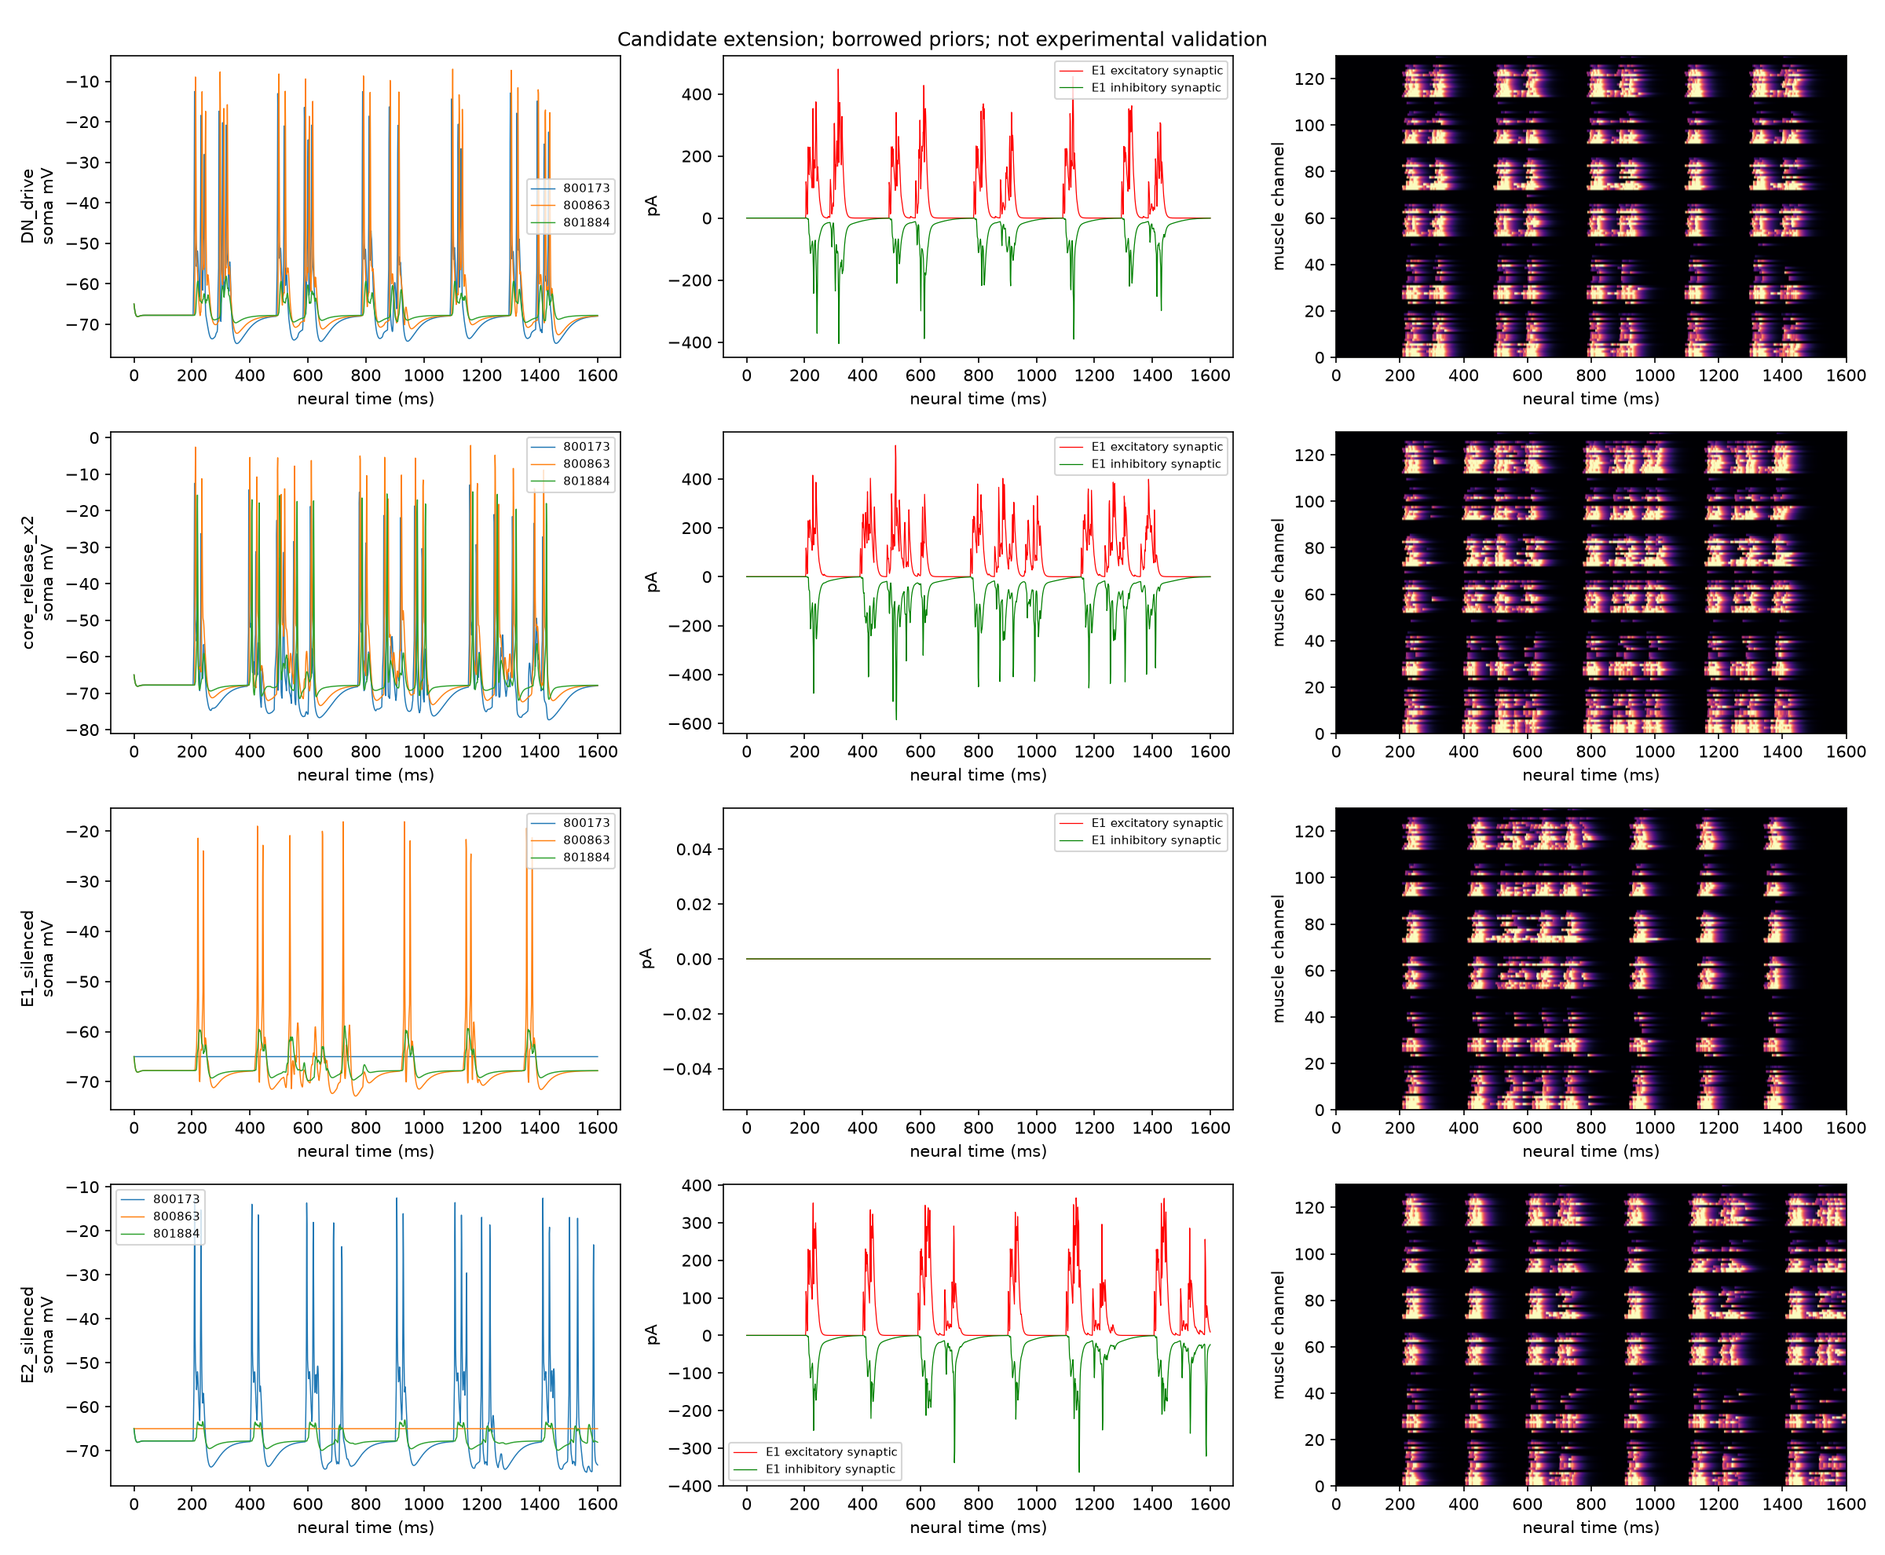
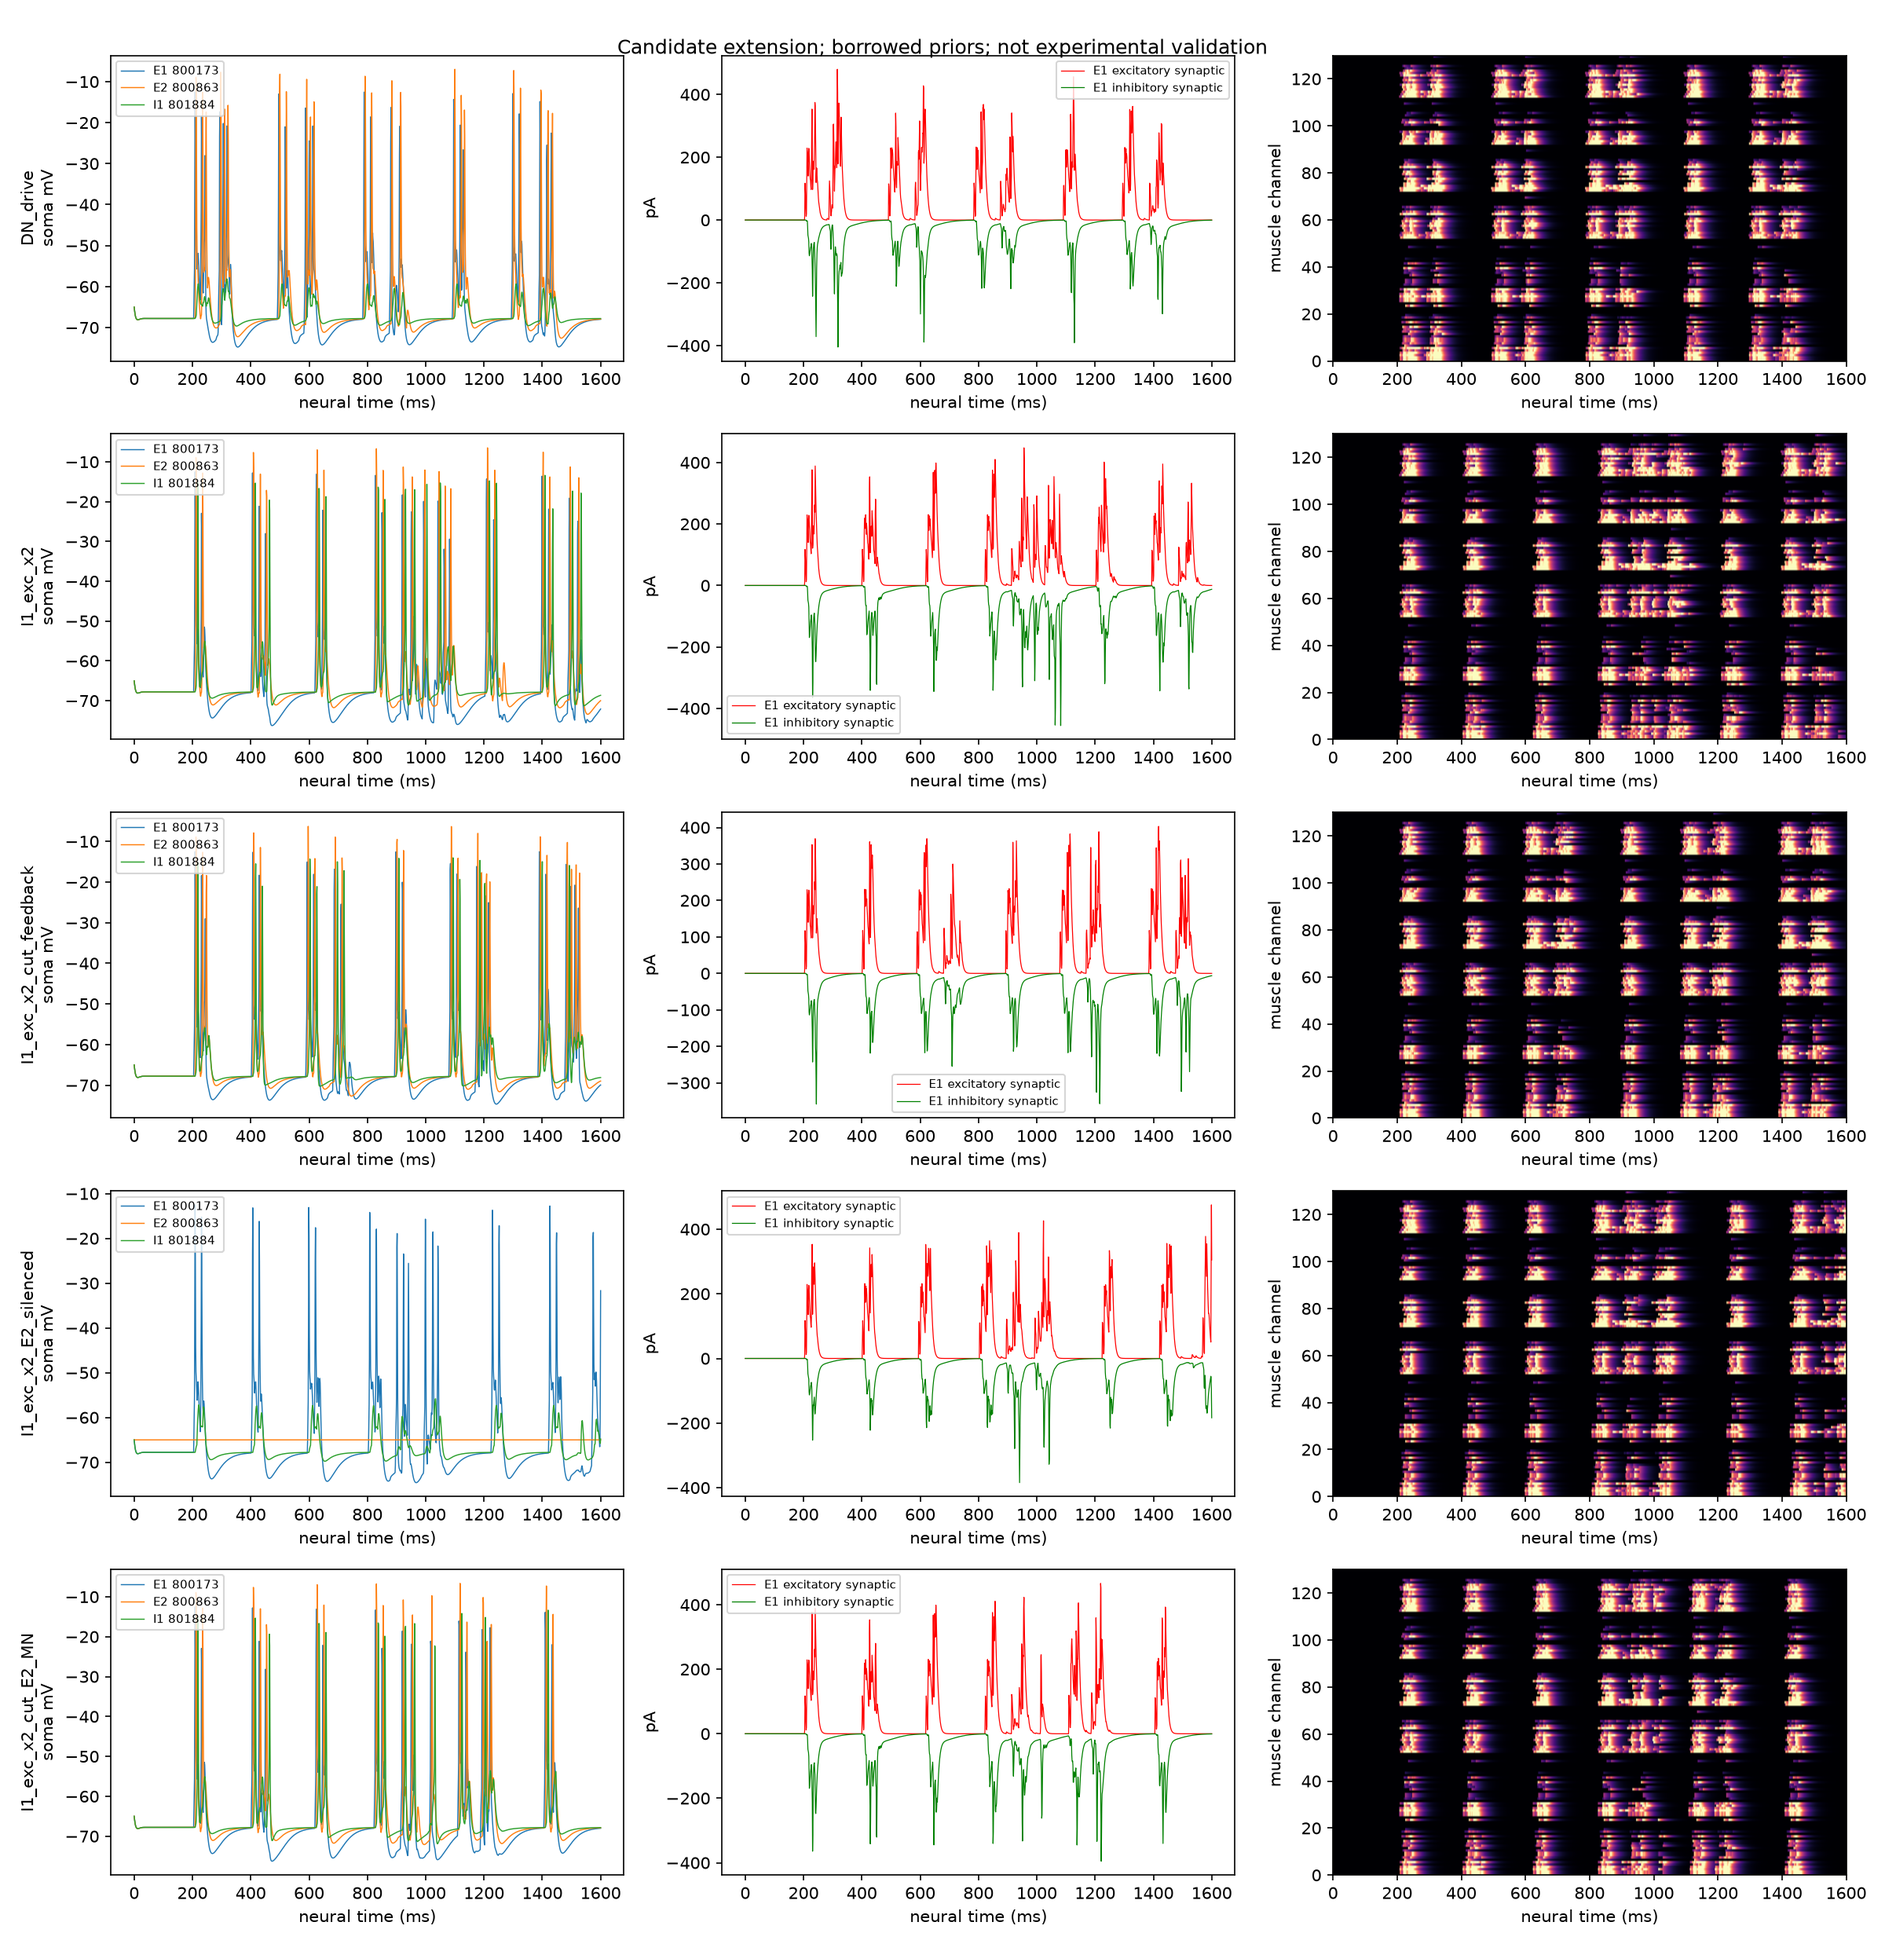
Package one runnable manual core candidate and complete diagnostic traces

diff --git a/research/manual-extension-review-20261119/package.py b/research/manual-extension-review-20261119/package.py
@@ -1,0 +1,22 @@
+"""Build one runnable selected network + all raw condition outputs; no private transcript."""
+from pathlib import Path
+import hashlib,json,subprocess,zipfile
+R=Path(__file__).resolve().parent;ROOT=R.parents[1];P=ROOT/'research/manual-full-rerun-20261119/cache/extracted/Manual_FreeBody';D=R/'cache/delivery';D.mkdir(parents=True,exist_ok=True);bundle=D/'Selected_Core_Extension.zip'
+files={'01_model/model.yaml':R/'cache/selected_manual_model.yaml','02_code/run_selected_neural.py':R/'run_selected_neural.py','README_zh.md':R/'README.md'}
+for f in (P/'02_code/flymodel').glob('*.py'):files['02_code/flymodel/'+f.name]=f
+for f in R.iterdir():
+ if f.suffix in {'.json','.tsv','.py','.npz'} and f.name not in {'artifact-transport.json','manifest.json','delivery-status.json'}:files['03_evidence/'+f.name]=f
+for f in (R/'results').iterdir():
+ if f.suffix in {'.json','.npz'}:files['04_results/'+f.name]=f
+files['04_results/core-and-muscle-traces.png']=R/'core-and-muscle-traces.png'
+assert len(list((R/'results').glob('*.npz')))==17
+with zipfile.ZipFile(bundle,'w',zipfile.ZIP_DEFLATED,compresslevel=6) as z:
+ for name,f in sorted(files.items()):z.write(f,name)
+ z.writestr('CONTENTS_SHA256.json',json.dumps({k:{'bytes':p.stat().st_size,'sha256':hashlib.sha256(p.read_bytes()).hexdigest()} for k,p in sorted(files.items())},indent=2))
+with zipfile.ZipFile(bundle) as z:assert z.testzip() is None
+assets=[bundle,R/'core-and-muscle-traces.png',R/'phenomena_status.json'];base='https://github.com/linzhefeng24/Applepie/releases/download/manual-core-extension-20261119/'
[1 lines of base64/hex data omitted]
+(R/'manifest.json').write_text(json.dumps(manifest,indent=2)+'\n')
+with zipfile.ZipFile(D/'Core_Extension_Transport.zip','w',zipfile.ZIP_STORED) as z:
+ for f in assets:z.write(f,f.name)
+print(json.dumps(manifest,indent=2))

diff --git a/research/manual-extension-review-20261119/plot.py b/research/manual-extension-review-20261119/plot.py
@@ -5,12 +5,12 @@ import matplotlib
 matplotlib.use('Agg')
 import matplotlib.pyplot as plt
 R=Path(__file__).resolve().parent
-names=[x for x in ['DN_drive','core_release_x2','E1_silenced','E2_silenced'] if (R/'results'/f'{x}.npz').exists()]
+names=[x for x in ['DN_drive','I1_exc_x2','I1_exc_x2_cut_feedback','I1_exc_x2_E2_silenced','I1_exc_x2_cut_E2_MN'] if (R/'results'/f'{x}.npz').exists()]
 fig,ax=plt.subplots(len(names),3,figsize=(16,3.3*len(names)),squeeze=False)
 for row,name in enumerate(names):
  z=np.load(R/'results'/f'{name}.npz');ids=z['body_ids'].tolist();rec=z['record_indices'].tolist();t=z['time_ms'];colors=['tab:blue','tab:orange','tab:green']
  for bid,c in zip(['800173','800863','801884'],colors):
-  j=rec.index(ids.index(bid));ax[row,0].plot(t,z['voltage'][:,j,0],label=bid,color=c,lw=.7)
+  j=rec.index(ids.index(bid));ax[row,0].plot(t,z['voltage'][:,j,0],label={'800173':'E1 800173','800863':'E2 800863','801884':'I1 801884'}[bid],color=c,lw=.7)
  j=rec.index(ids.index('800173'));ax[row,1].plot(t,z['currents_pA'][:,j,0],label='E1 excitatory synaptic',color='red',lw=.6);ax[row,1].plot(t,z['currents_pA'][:,j,1],label='E1 inhibitory synaptic',color='green',lw=.6)
  ax[row,2].imshow(z['u'].T,aspect='auto',origin='lower',extent=[0,1600,0,130],vmin=0,vmax=1,cmap='magma');ax[row,0].set_ylabel(name+'\nsoma mV');ax[row,1].set_ylabel('pA');ax[row,2].set_ylabel('muscle channel');ax[row,0].legend(fontsize=7);ax[row,1].legend(fontsize=7)
  for a in ax[row]:a.set_xlabel('neural time (ms)')
